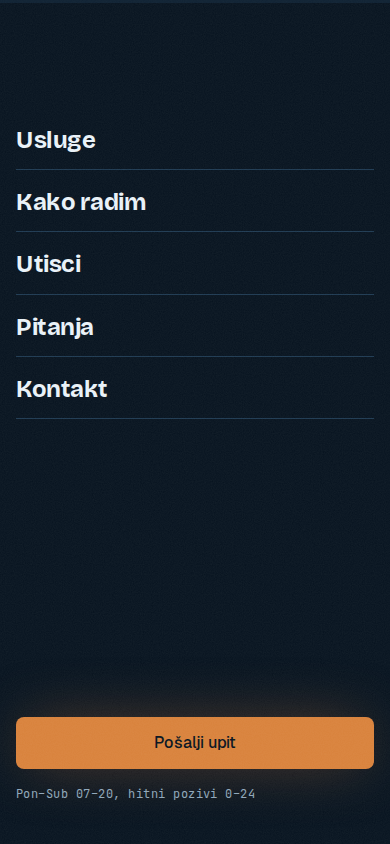
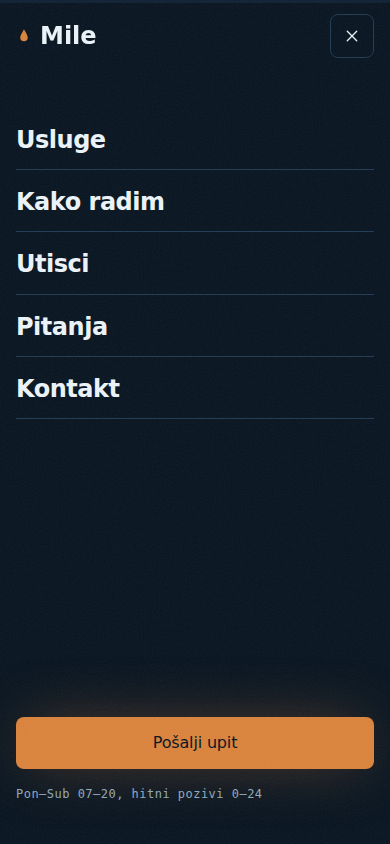
Nav: keep header and close button above the mobile menu, include it in the focus cycle
Claude-Session: https://claude.ai/code/session_01TeAPS7MGBLZwg3vjRc9RXa

diff --git a/src/components/Nav.tsx b/src/components/Nav.tsx
@@ -107,7 +107,10 @@ export function Nav() {
       if (e.key !== 'Tab') return
       const panel = panelRef.current
       if (!panel) return
-      const focusable = Array.from(panel.querySelectorAll<HTMLElement>('a[href], button:not([disabled])'))
+      // The header's own toggle (now the close button) stays visible above the panel and is part of the cycle.
+      const focusable = [hamburger, ...Array.from(panel.querySelectorAll<HTMLElement>('a[href], button:not([disabled])'))].filter(
+        (el): el is HTMLElement => !!el,
+      )
       if (!focusable.length) return
       const first = focusable[0]
       const last = focusable[focusable.length - 1]
@@ -264,7 +267,7 @@ export function Nav() {
           aria-modal="true"
           aria-label="Meni"
           className={cn(
-            'fixed inset-0 z-[60] flex flex-col bg-ink px-[var(--gutter)] pt-[var(--nav-height)] pb-10 md:hidden',
+            'fixed inset-0 z-40 flex flex-col bg-ink px-[var(--gutter)] pt-[var(--nav-height)] pb-10 md:hidden',
             'transition-[opacity,transform] duration-300 ease-out motion-reduce:transition-none',
             open ? 'translate-y-0 opacity-100' : '-translate-y-2 opacity-0',
           )}
